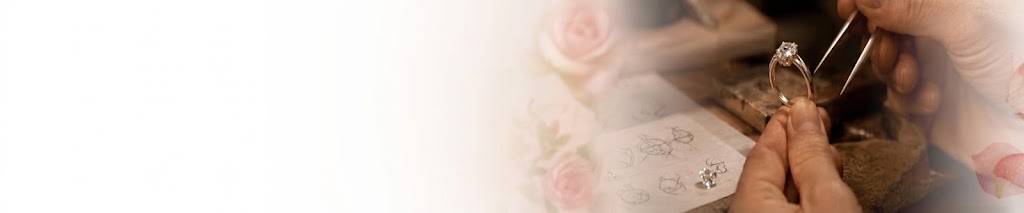
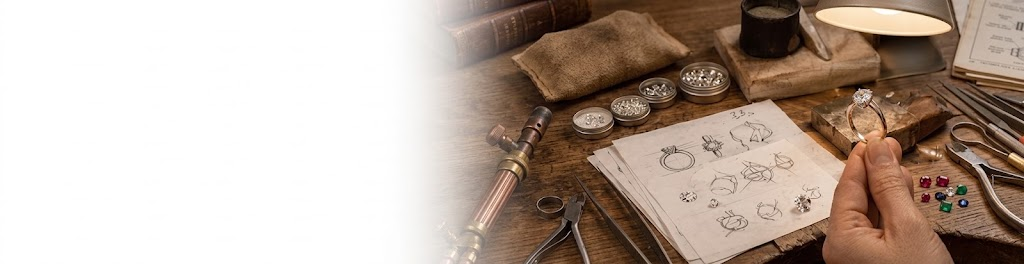
Update Atelier section image with natural white transition and pure white background

diff --git a/src/app/page.tsx b/src/app/page.tsx
@@ -160,20 +160,20 @@ export default async function HomePage() {
       </section>
 
       {/* STORY */}
-      <section className="relative overflow-hidden bg-[#FAF6F3]">
+      <section className="relative overflow-hidden bg-white">
         <div className="absolute inset-0 z-0 flex justify-end">
           {/* eslint-disable-next-line @next/next/no-img-element */}
           <img
             src="/images/atelier.jpg"
             alt="Artisan crafting jewellery"
-            className="h-full w-full object-cover object-right md:w-[70%] lg:w-[65%]"
+            className="h-full w-full object-cover object-right md:w-[75%] lg:w-[70%]"
           />
-          <div className="pointer-events-none absolute inset-0 bg-gradient-to-r from-[#FAF6F3] via-[#FAF6F3]/95 to-transparent md:via-[#FAF6F3]/85 lg:via-[#FAF6F3]/65" />
+          <div className="pointer-events-none absolute inset-0 bg-gradient-to-r from-white via-white/95 to-transparent md:w-1/2 lg:hidden" />
         </div>
 
         <div className="relative z-10 mx-auto max-w-7xl px-4 py-16 sm:py-20 lg:px-8">
           <div className="max-w-xl">
-            <p className="eyebrow tracking-[0.25em] text-rose-deep">CRAFTED TO BE CHERISHED</p>
+            <p className="eyebrow tracking-[0.25em] text-rose-deep font-medium">CRAFTED TO BE CHERISHED</p>
             <h2 className="mt-3 font-serif text-3xl sm:text-4xl text-ink leading-tight font-light">
               The Beauty Behind<br />
               <span className="italic">Every Detail</span>
@@ -185,7 +185,7 @@ export default async function HomePage() {
 
             <div className="mt-8 grid grid-cols-3 gap-4 text-center max-w-md">
               <div className="flex flex-col items-center">
-                <div className="flex h-10 w-10 items-center justify-center rounded-full border border-rose-light/50 bg-cream/90 text-rose-deep shadow-xs">
+                <div className="flex h-11 w-11 items-center justify-center rounded-full border border-line bg-cream/90 text-rose-deep shadow-xs">
                   <GemIcon className="h-5 w-5" />
                 </div>
                 <p className="mt-3 text-[0.7rem] font-medium tracking-wide uppercase text-ink">Ethically Sourced</p>
@@ -193,7 +193,7 @@ export default async function HomePage() {
               </div>
 
               <div className="flex flex-col items-center">
-                <div className="flex h-10 w-10 items-center justify-center rounded-full border border-rose-light/50 bg-cream/90 text-rose-deep shadow-xs">
+                <div className="flex h-11 w-11 items-center justify-center rounded-full border border-line bg-cream/90 text-rose-deep shadow-xs">
                   <SparklesIcon className="h-5 w-5" />
                 </div>
                 <p className="mt-3 text-[0.7rem] font-medium tracking-wide uppercase text-ink">Handcrafted by</p>
@@ -201,7 +201,7 @@ export default async function HomePage() {
               </div>
 
               <div className="flex flex-col items-center">
-                <div className="flex h-10 w-10 items-center justify-center rounded-full border border-rose-light/50 bg-cream/90 text-rose-deep shadow-xs">
+                <div className="flex h-11 w-11 items-center justify-center rounded-full border border-line bg-cream/90 text-rose-deep shadow-xs">
                   <BadgeCheckIcon className="h-5 w-5" />
                 </div>
                 <p className="mt-3 text-[0.7rem] font-medium tracking-wide uppercase text-ink">Heirloom Quality</p>
